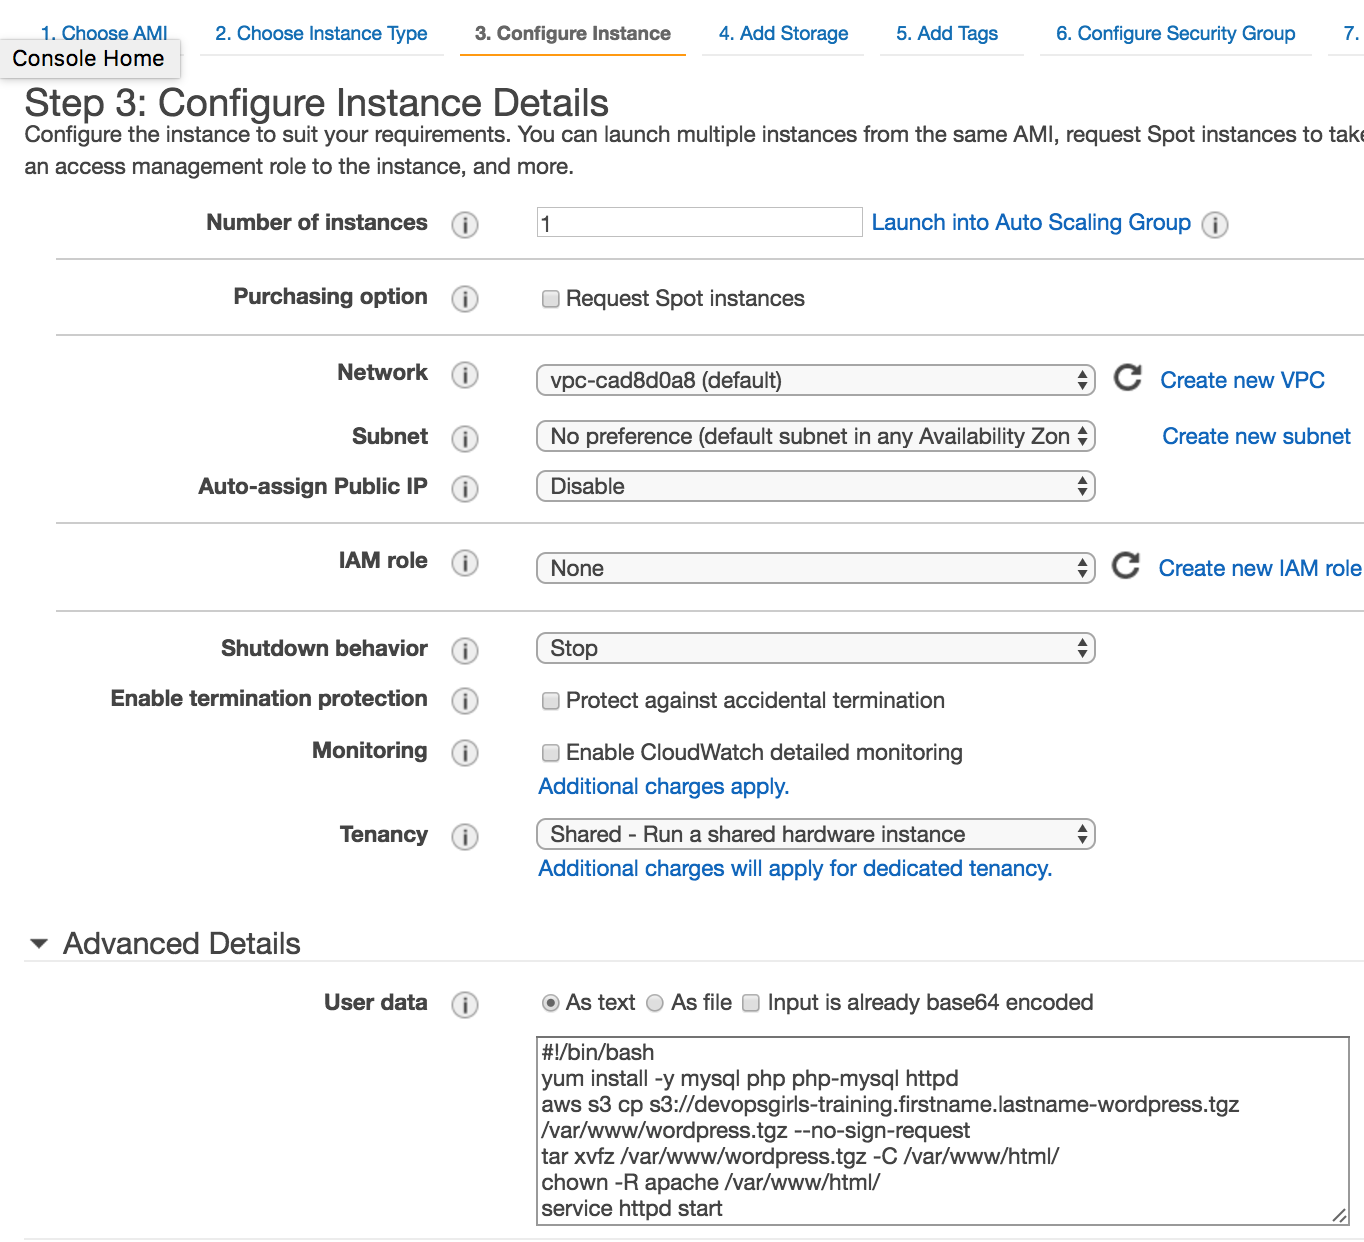
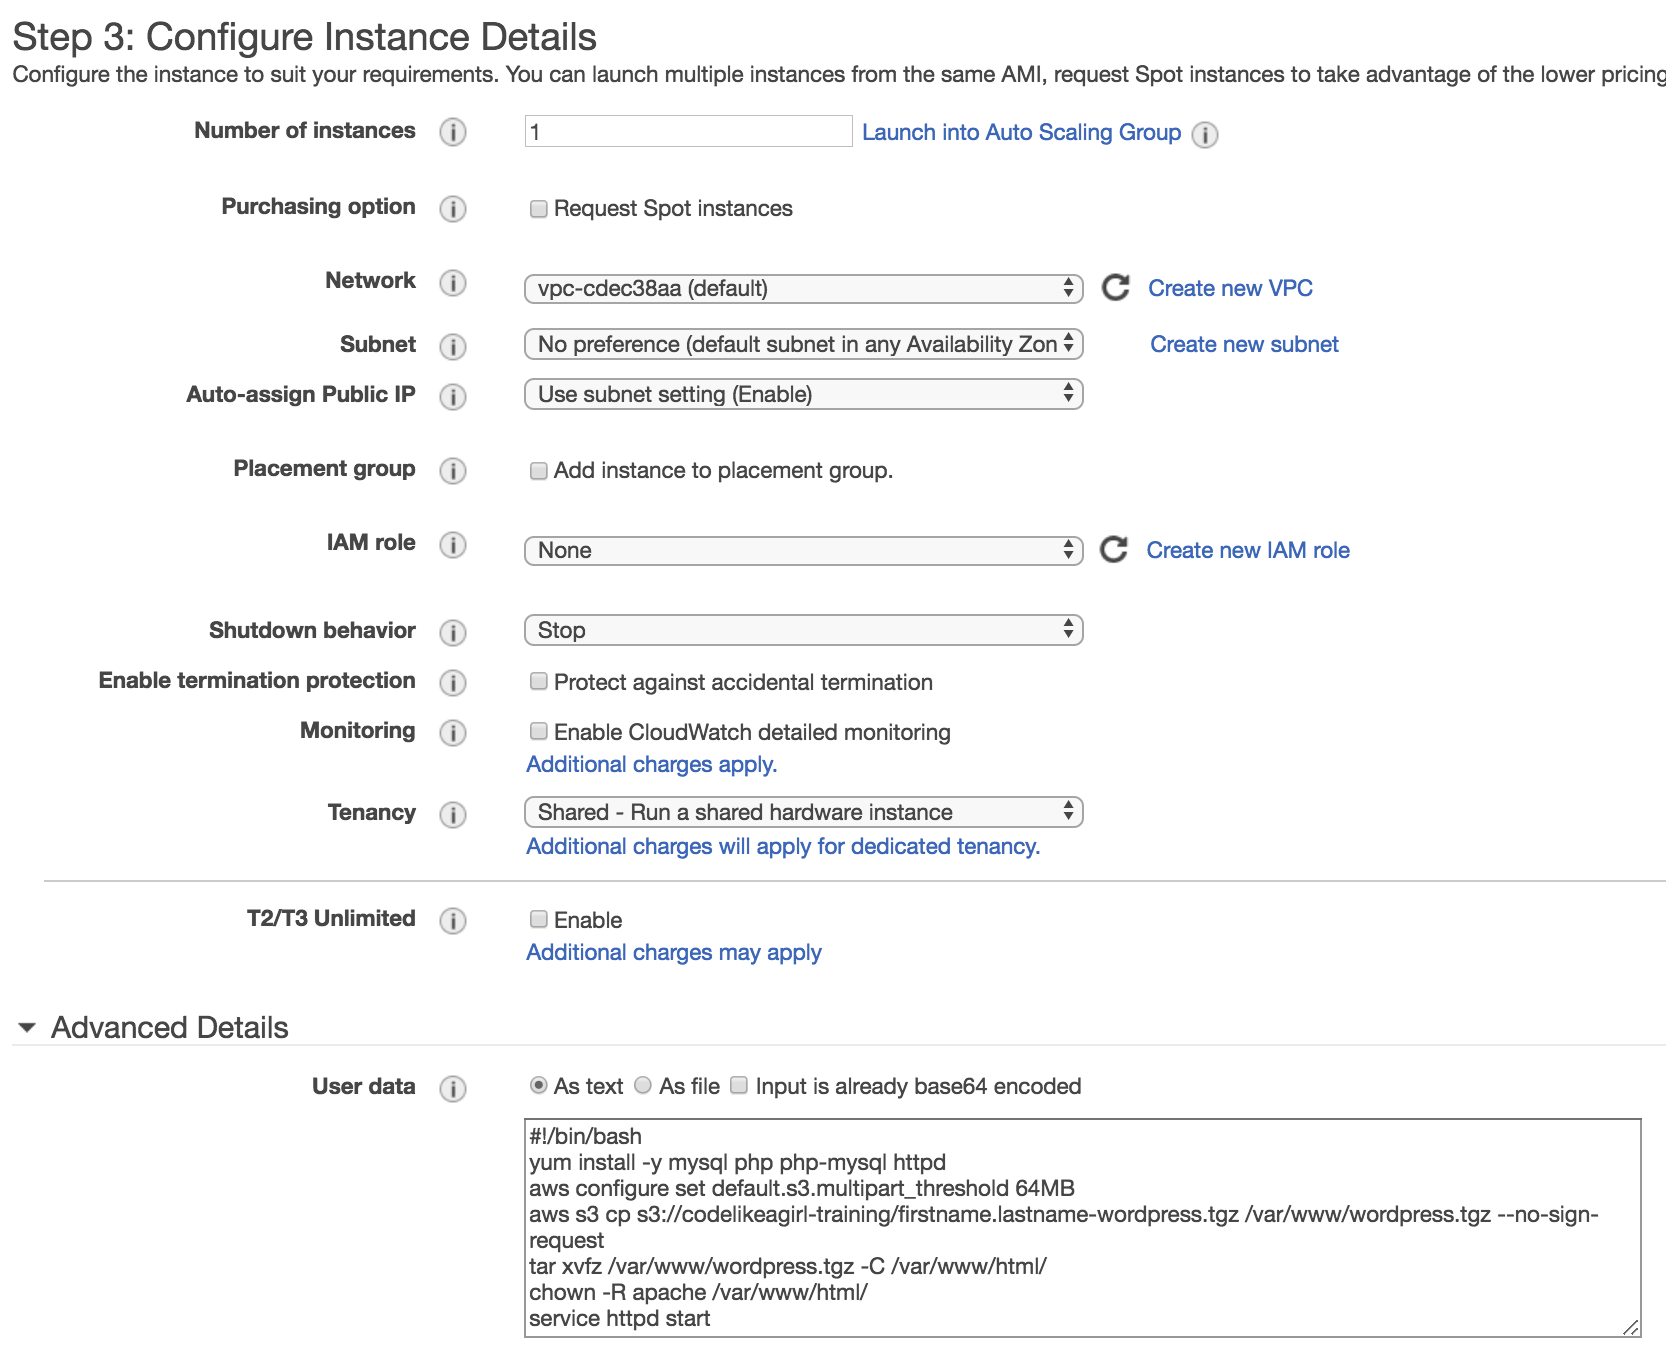
Fix more annotations

diff --git a/2-1-ELB.md b/2-1-ELB.md
@@ -155,12 +155,16 @@ With this command, changing directories to */var/www/html* - where Wordpress is 
 
 ### 16.) Upload the file to S3
 
-S3 is an object store - essentially allowing you to upload files to a directory that you can share either within the account, or to the world. We do this by running the following commands - one to set the maximum size of the upload, and one to *copy* the file to S3 ( *s3 cp* ).
-
-
 ```
 aws configure set default.s3.multipart_threshold 64MB
 aws s3 cp ~/firstname.lastname-wordpress.tgz s3://codelikeagirl-training/firstname.lastname-wordpress.tgz --no-sign-request
+```
+
+Depending on the AWS login that you used ( `codelikeagirl`, `codelikeagirl-2`, or `codelikeagirl-3`, you may need to change the S3 bucket to upload to. `codelikeagirl` accounts need to use `codelikeagirl-training`, `codelikeagirl-2` accounts need to use `codelikeagirl-training-2`, and `codelikeagirl-3` accounts need to use `codelikeagirl-training-3`. For example, for a `codelikeagirl-2` account:
+
+```
+aws configure set default.s3.multipart_threshold 64MB
+aws s3 cp ~/firstname.lastname-wordpress.tgz s3://codelikeagirl-training-2/firstname.lastname-wordpress.tgz --no-sign-request
 ```
 
 
@@ -205,7 +209,7 @@ chown -R apache /var/www/html/
 service httpd start
 ```
 
-Your configuration should look like this:
+Again, make sure that you change the S3 bucket name (`codelikeagirl-training`, `codelikeagirl-training-2`, or `codelikeagirl-training-3`). Your configuration should look like this:
 
 ![Image][2-1-15-userdata]
 

diff --git a/1-1-EC2.md b/1-1-EC2.md
@@ -25,7 +25,7 @@ In this practical exercise, we will do the following:
 
 ### 1.) Log into AWS
 
-First off, you'll need to go to https://codelikeagirl-devops.signin.aws.amazon.com/console using your browser. Log in with your supplied account credentials.
+First off, you'll need to go to `https://codelikeagirl-devops.signin.aws.amazon.com/console` ( or `https://codelikeagirl-devops-2.signin.aws.amazon.com/console` )  using your browser. Log in with your supplied account credentials.
 
 ![Instance Logins][1-1-1-awslogin]
 
